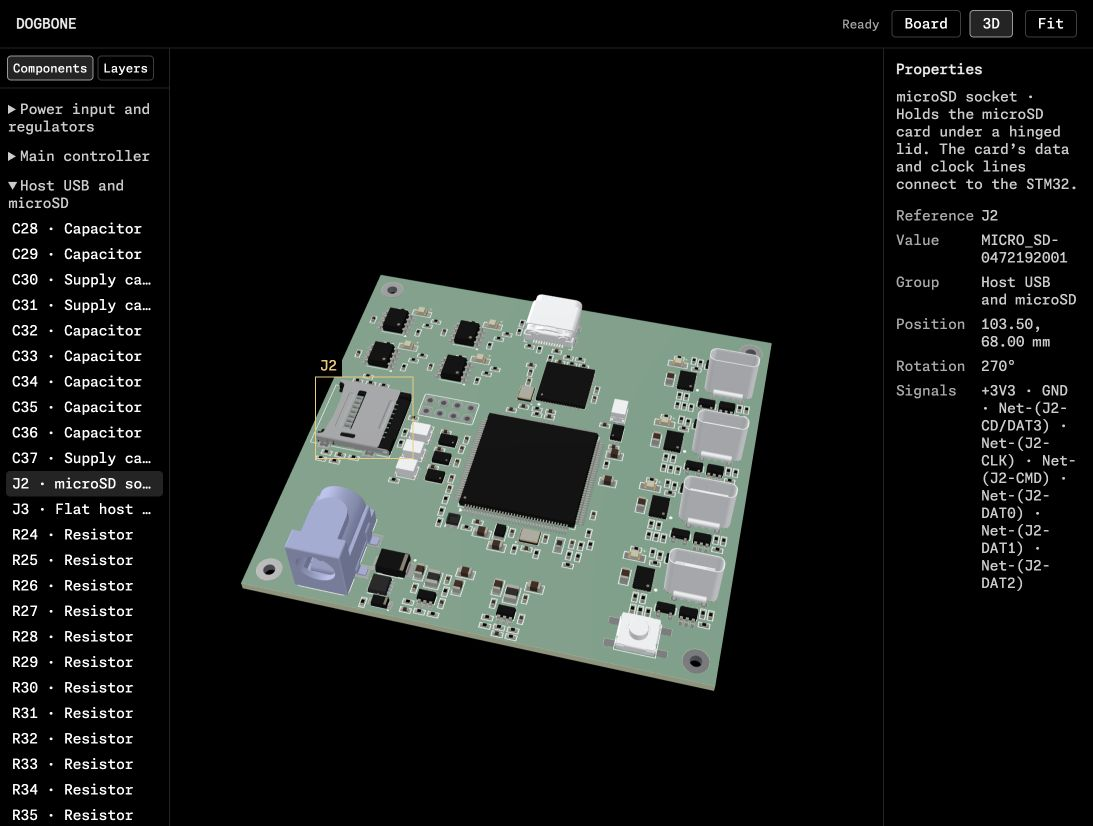
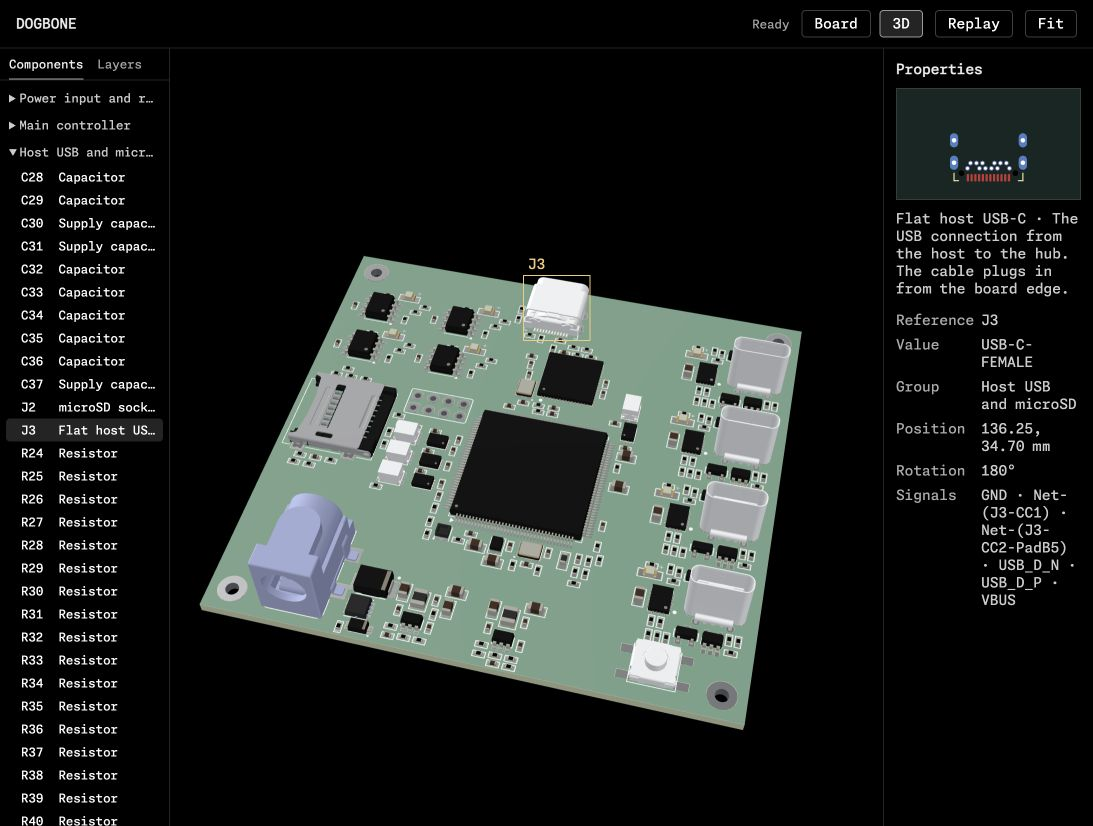
show the selected footprint

diff --git a/dogbone/web/labels.js b/dogbone/web/labels.js
@@ -10,6 +10,10 @@ export function createLabels(canvas, onParts) {
   const components = document.querySelector("#components");
   const detail = document.querySelector("#part-detail");
   const fields = document.querySelector("#part-fields");
+  const previewPanel = document.querySelector("#footprint-preview");
+  const preview = previewPanel.querySelector("img");
+  preview.onload = () => { previewPanel.hidden = false; };
+  preview.onerror = () => { previewPanel.hidden = true; };
   const modelMark = document.querySelector("#model-mark");
   const tag = document.querySelector("#model-label");
   const targets = svg("g", {});
@@ -62,6 +66,19 @@ export function createLabels(canvas, onParts) {
     ].filter(Boolean).join(" · ") : "Select a part.";
     fields.replaceChildren();
     fields.hidden = !part;
+    if (!part) {
+      previewPanel.hidden = true;
+      preview.removeAttribute("src");
+    } else {
+      const source = `/footprint.svg?ref=${encodeURIComponent(part.ref)}&revision=${data.revision}`;
+      if (preview.getAttribute("src") !== source) {
+        if (preview.dataset.ref !== part.ref) previewPanel.hidden = true;
+        preview.dataset.ref = part.ref;
+        preview.alt = `${part.ref} KiCad footprint`;
+        preview.style.transform = `rotate(${-part.angle}deg)`;
+        preview.src = source;
+      }
+    }
     if (part) {
       const row = rows.get(part.ref);
       if (row) {

diff --git a/dogbone/web/index.html b/dogbone/web/index.html
@@ -48,6 +48,8 @@
   #components .component span:last-child { overflow: hidden; text-overflow: ellipsis; white-space: nowrap; }
   #properties h2, #properties p { margin: 0 0 10px; }
   #properties h2 { font-size: 14px; }
+  #footprint-preview { display: grid; place-items: center; height: 110px; margin-bottom: 10px; background: #172623; border: 1px solid #303e38; }
+  #footprint-preview img { width: 77px; height: 77px; object-fit: contain; }
   #part-detail, #properties dd { color: #ccc; overflow-wrap: anywhere; }
   #properties dl { display: grid; grid-template-columns: auto minmax(0,1fr); gap: 7px; }
   #properties dt { color: #aaa; }
@@ -103,6 +105,7 @@
   </main>
   <aside id="properties" aria-label="Properties">
     <h2>Properties</h2>
+    <div id="footprint-preview" hidden><img alt="Selected KiCad footprint"></div>
     <p id="part-detail" aria-live="polite">Select a part.</p>
     <dl id="part-fields" hidden></dl>
   </aside>

diff --git a/dogbone/server.py b/dogbone/server.py
@@ -1,5 +1,6 @@
 """The dogbone browser view and MCP endpoint for one open KiCad board."""
 import argparse
+from functools import lru_cache
 from hashlib import sha256
 import json
 from pathlib import Path
@@ -15,6 +16,7 @@ from starlette.responses import FileResponse, Response
 from starlette.staticfiles import StaticFiles
 
 from .kicad import Connector, make_server
+from .footprint import footprint_for_plot
 
 
 WEB = Path(__file__).resolve().parent / "web"
@@ -39,9 +41,26 @@ class Preview:
         self.temp = TemporaryDirectory(prefix="dogbone-")
         self.cache = {}
         self.locks = {kind: Lock() for kind in EXPORTS}
+        self.footprint_lock = Lock()
+        self.plot_footprint = lru_cache(maxsize=32)(self._plot_footprint)
 
     def publish(self, revision, document):
         self.snapshot = revision, document
+
+    def selected_footprint(self, reference):
+        footprint = footprint_for_plot(self.snapshot[1], reference)
+        if footprint is not None:
+            with self.footprint_lock:
+                return self.plot_footprint(footprint)
+
+    def _plot_footprint(self, footprint):
+        folder = Path(self.temp.name)
+        library = folder / "selection.pretty"
+        library.mkdir(exist_ok=True)
+        (library / "preview.kicad_mod").write_bytes(footprint)
+        subprocess.run([CLI, "fp", "export", "svg", "--layers", "F.Cu,B.Cu,F.Silkscreen,B.Silkscreen",
+                        "--output", str(folder), str(library)], check=True, capture_output=True, timeout=8)
+        return (folder / "preview.svg").read_bytes()
 
     def export(self, kind, layers):
         # Deduplicate concurrent viewers. SVG and GLB export independently.
@@ -106,6 +125,19 @@ def create_app(board_path, socket, replay_path=None):
             print(f"KiCad label read failed: {error}", flush=True)
             return Response("Part labels unavailable", status_code=503)
         return Response(json.dumps(result), media_type="application/json", headers={"Cache-Control": "no-store"})
+
+    @server.custom_route("/footprint.svg", methods=["GET"])
+    async def footprint(request):
+        reference = request.query_params.get("ref", "")
+        if not 1 <= len(reference) <= 64:
+            return Response(status_code=404)
+        try:
+            data = await run_in_threadpool(preview.selected_footprint, reference)
+        except (subprocess.SubprocessError, OSError):
+            return Response(status_code=503)
+        if data is None:
+            return Response(status_code=404)
+        return Response(data, media_type="image/svg+xml", headers={"Cache-Control": "no-cache"})
 
     @server.custom_route("/frame.svg", methods=["GET"])
     @server.custom_route("/model.glb", methods=["GET"])

diff --git a/dogbone/footprint.py b/dogbone/footprint.py
@@ -1,0 +1,24 @@
+"""Extract the selected board instance for KiCad's footprint plotter."""
+import json
+import re
+
+
+def footprint_for_plot(document, reference):
+    property_name = re.escape(json.dumps(reference, ensure_ascii=False).encode())
+    matching_ref = re.compile(rb'\(property\s+"Reference"\s+' + property_name + rb'(?=\s|\))')
+    depth, start = 0, None
+    for token in re.finditer(rb'"(?:\\.|[^"\\])*"|[()]', document):
+        if token[0] == b"(":
+            if depth == 1 and document.startswith(b"(footprint ", token.start()):
+                start = token.start()
+            depth += 1
+        elif token[0] == b")":
+            depth -= 1
+            if depth == 1 and start is not None:
+                entry = document[start:token.end()]
+                start = None
+                if matching_ref.search(entry):
+                    version = re.search(rb'\(version [0-9]+\)', document)[0]
+                    entry = re.sub(rb'^\(footprint "(?:\\.|[^"\\])*"',
+                                   b'(footprint "preview"\n' + version + b'\n(generator "pcbnew")', entry)
+                    return re.sub(rb'\(at [^()\s]+ [^()\s]+', b'(at 0 0', entry, count=1)
